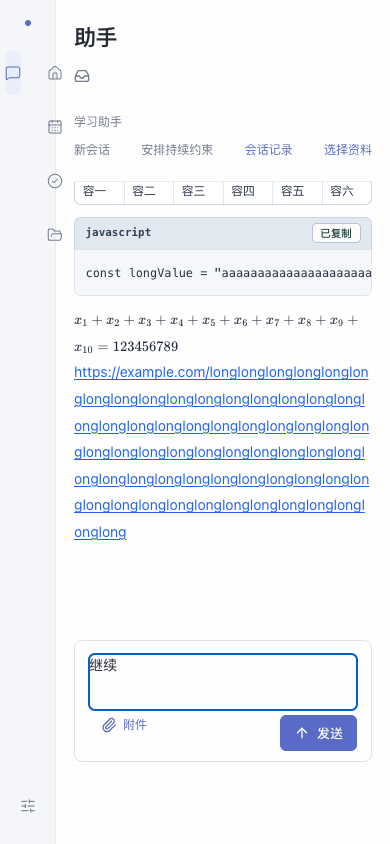
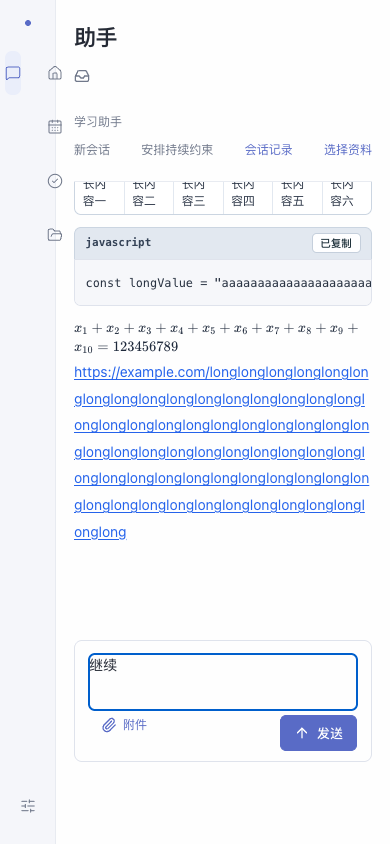
fix(chat): contain long inline formulas and prepare 2.9.2 release

diff --git a/frontend/e2e/chat-markdown.spec.ts b/frontend/e2e/chat-markdown.spec.ts
@@ -123,3 +123,18 @@ test('long tables code and formulas scroll inside narrow chat; copy preserves co
  await page.getByLabel('给助手的消息').fill('继续');await expect(page.getByRole('button',{name:'发送',exact:true})).toBeEnabled();
  await page.screenshot({path:fileURLToPath(new URL('../../docs/validation/demo2.9.2/markdown-narrow.png',import.meta.url)),fullPage:true});
 });
+
+
+test('unbreakable inline and bracket math stay inside the answer on narrow screens',async({page})=>{
+ await page.setViewportSize({width:390,height:844});
+ await reply(page,['长行内公式 $'+'x'.repeat(120)+'$。\n\n括号公式 \\('+'y'.repeat(120)+'\\)。']);
+ await enter(page);await send(page,'长行内公式');
+ const answer=page.locator('.message.assistant');await expect(answer.locator('.katex')).toHaveCount(2);
+ const bounds=await answer.evaluate(n=>({right:n.getBoundingClientRect().right,viewport:innerWidth,chat:document.querySelector('.chat-viewport')!.scrollWidth,available:document.querySelector('.chat-viewport')!.clientWidth}));
+ expect(bounds.right).toBeLessThanOrEqual(bounds.viewport);expect(bounds.chat).toBeLessThanOrEqual(bounds.available);
+ const formulaBoxes=await answer.locator('.katex').evaluateAll(ns=>ns.map(n=>{const r=n.getBoundingClientRect();return {left:r.left,right:r.right,width:r.width}}));
+ expect(formulaBoxes.every(b=>b.right<=bounds.viewport&&b.width>0)).toBe(true);
+ await answer.locator('.katex').first().hover();await page.mouse.wheel(250,0);
+ await expect.poll(()=>answer.locator('.katex').first().evaluate(n=>n.scrollLeft)).toBeGreaterThan(0);
+ await expect(page.getByLabel('给助手的消息')).toBeVisible();
+});

diff --git a/frontend/src/assistant-markdown.css b/frontend/src/assistant-markdown.css
@@ -378,8 +378,13 @@
 
 /* KaTeX math layout & overflow protection */
 .assistant-markdown .katex {
-  font-size: 1.04em;
+  display: inline-block;
   max-width: 100%;
+  overflow-x: auto;
+  overflow-y: hidden;
+  padding: 0.2em 0;
+  vertical-align: middle;
+  font-size: 1.04em;
 }
 
 .assistant-markdown .katex-display {
@@ -395,9 +400,10 @@
 }
 
 .assistant-markdown .katex-display > .katex {
-  display: inline-block;
   white-space: nowrap;
   max-width: none;
+  overflow: visible;
+  padding: 0;
 }
 
 .assistant-markdown .katex-error {

diff --git a/docs/releases/Demo2.9.2.md b/docs/releases/Demo2.9.2.md
@@ -1,0 +1,19 @@
+# Demo2.9.2 助手Markdown与数学公式
+
+助手回答支持加粗、标题、列表、引用、链接、表格、只读任务清单与代码块；代码块可复制。数学公式在本机通过KaTeX显示，支持$…$、$$…$$及模型常用的括号分隔符。代码中的标记保持原文，历史对话与新回答使用相同显示方式。用户消息按原文显示。
+
+字体、配色和消息流沿用现有界面。收到的文字即时显示，不依赖动画帧；长表格与代码块在自身区域横向滚动，长链接可换行。格式未完整或公式不合法时保留可读文本；Markdown清单不会直接修改实际任务。
+
+## 技术与边界
+
+复用assistant-ui Markdown、remark-gfm、remark-math/rehype-katex与KaTeX，许可随App提供。本轮不改模型、后端接口或数据结构。公式字体和样式随App打包，显示过程无需在线下载。
+
+原始HTML不执行，链接限制为HTTP/HTTPS或页内锚点；模型回答里的图片显示文字替代，不自动请求远程图片。附件图片与作业识别仍走原有流程。KaTeX关闭可信宏，限制展开次数与尺寸。
+
+依赖固定版本见frontend/package-lock.json；将KaTeX统一覆盖为0.19.1，以修复公式插件默认旧依赖的信任限制问题，并确保字体CSS与渲染器一致。前端运行依赖审计0已知漏洞；既有开发工具链3项中等告警不随App运行环境打包。本次没有扩大依赖升级范围。
+
+## 验收说明
+
+本版使用隔离合成消息验证Markdown、历史回放、暂停动画帧下流式显示、代码原文/复制、远程请求边界和390宽布局。正式19门禁、原生WebKit验收与包校验结果见本版验证记录。开发过程与真实用户资料分离，没有调用付费业务模型。
+
+模型仍可能产生不符合Markdown/LaTeX语法的内容；本版验证显示与容错，不对真实模型的回答正确性作额外保证。真实学校课表、作业识别和个人文献库仍沿用既有验收边界。

diff --git a/docs/superpowers/plans/2026-11-02-chat-markdown-math.md b/docs/superpowers/plans/2026-11-02-chat-markdown-math.md
@@ -31,11 +31,11 @@
 
 **Interfaces:** AssistantMarkdown(): JSX element consumes assistant-ui text-part context; exposed only as AssistantMessage Text renderer. URL policy and math preprocessing remain local.
 
-- [ ] Write isolated E2E tests injecting synthetic SSE message events into real ChatPage: strong/list/table/code/math, original user text, streaming chunk completion, paused animation frames, unsafe content/no requests, narrow overflow, history replay and code copy.
-- [ ] Run against baseline build and observe missing-format assertions fail.
-- [ ] Install pinned compatible dependencies; Antigravity generates narrow renderer/CSS with sanitized context and no data/keys. Main assistant reviews and integrates, retaining smooth=false.
-- [ ] Run targeted E2E, frontend typecheck/unit suite and build; require all pass. Review code/libraries and exercise delimiter/code boundaries.
-- [ ] Commit implementation with tests and license materials.
+- [x] Write isolated E2E tests injecting synthetic SSE message events into real ChatPage: strong/list/table/code/math, original user text, streaming chunk completion, paused animation frames, unsafe content/no requests, narrow overflow, history replay and code copy.
+- [x] Run against baseline build and observe missing-format assertions fail.
+- [x] Install pinned compatible dependencies; Antigravity generates narrow renderer/CSS with sanitized context and no data/keys. Main assistant reviews and integrates, retaining smooth=false.
+- [x] Run targeted E2E, frontend typecheck/unit suite and build; require all pass. Review code/libraries and exercise delimiter/code boundaries.
+- [x] Commit implementation with tests and license materials.
 
 ### Task 2: Review, native acceptance and release
 

diff --git a/README.md b/README.md
@@ -53,7 +53,9 @@
 
 App与安装包由本地发布流程生成；本地最新版入口见工作区README。历史版本已备份到既有私有GitHub Releases，需登录有权限的账号下载，见[云端归档与恢复](docs/releases/历史版本云端归档.md)。源码构建见下方说明。
 
-最新补丁 **2.9.1 检索设置排版修复**，分支`codex/research-settings-layout`。复选框与“启用语义检索”同行，补充搜索服务地址说明。[本版说明](docs/releases/Demo2.9.1.md) · [验收记录](docs/validation/demo2.9.1/README.md)。19项发布检查、803后台+20子项、114前端、111界面及正式App设置页目视验收通过；原资料已恢复。
+最新版本 **2.9.2 助手Markdown与数学公式**，分支`codex/chat-markdown-math`。支持格式化回答、表格、代码复制和本地公式，兼容历史与流式消息。[本版说明](docs/releases/Demo2.9.2.md)。正式结果以本版发布目录验证记录为准。
+
+历史补丁 **2.9.1 检索设置排版修复**，分支`codex/research-settings-layout`。复选框与“启用语义检索”同行，补充搜索服务地址说明。[本版说明](docs/releases/Demo2.9.1.md) · [验收记录](docs/validation/demo2.9.1/README.md)。19项发布检查、803后台+20子项、114前端、111界面及正式App设置页目视验收通过；原资料已恢复。
 
 历史发布 **2.9.0 课程资料工作区**，分支`codex/course-library-workspace`。19门禁、803后台+20子项、114前端、111界面与最终App原生上传/分类/选用/固定侧栏验收通过，签名/39哈希/双ZIP/252运行源码核对通过。[本版记录](docs/validation/demo2.9/README.md)。
 

diff --git a/docs/roadmap/Demo2.5-开发进度追踪表.md b/docs/roadmap/Demo2.5-开发进度追踪表.md
@@ -277,3 +277,5 @@ U3c/Task3：统一导入面板已实现，学校/Chrome或保存的Edge为默认
 2026-11-02 2.9.2启动：用户确认复用开源Markdown/公式组件并要求实施。基于7e8bbf1新建codex/chat-markdown-math，已验证现有前端114项基线通过；规范与实施计划见2026-11-02-chat-markdown-design/math。保留smooth=false和用户原文，准备隔离失败用例与Antigravity窄组件实现。尚未发布，不调用业务模型。
 
 2026-11-02 2.9.2实现验证：Antigravity gemini-4-argon-medium/medium在脱敏上下文产出主要Markdown/样式组件；主助手接入、修正Text分支类型与局部样式。新增4项真实ChatPage合成SSE测试先RED后GREEN，114原前端通过；覆盖历史、暂停动画帧、公式/代码分隔符、零远程图片请求、危险内容和390宽复制。依赖统一KaTeX0.19.1后运行依赖审计0漏洞；原有开发工具链3项中等告警不进入App。已恢复项目固定Node22.23.3工具。准备独立代码审查与正式构建，尚未发布。
+
+2026-11-02 2.9.2独立审查：1项Important（超长行内公式溢出），已新增真实DOM失败回归：999>298，修复为公式自身可滚动，完整5项Markdown界面通过。审查未发现其他实质问题；Mermaid/语法高亮/远程图片预览按已确认范围留后续。准备正式19门禁与独立App原生合成验收，仍无付费业务模型请求。

diff --git a/docs/validation/demo2.9.2/README.md b/docs/validation/demo2.9.2/README.md
@@ -1,0 +1,9 @@
+# 2.9.2 Markdown与公式验收
+
+用户确认开源组件方案后在独立分支codex/chat-markdown-math实施。Antigravity gemini-4-argon-medium/medium生成主要组件与CSS，主助手集成、调整现有样式并测试，不向编码服务提供个人资料或App密钥。
+
+114项原前端基线通过。4项真实ChatPage集成用例使用隔离合成SSE先RED后GREEN，覆盖格式与公式、用户原文/历史、暂停动画帧、危险内容/零远程图片访问及390宽代码复制。独立代码审查发现1项Important：超长行内公式越界；新增回归先失败（聊天scrollWidth999>clientWidth298），修复后5项Markdown集成全部通过，另以实际水平滚轮确认长行内公式可完整滚动阅读。
+
+运行依赖固定，KaTeX统一0.19.1，运行依赖npm审计0已知漏洞；本机项目工具Node22.23.3与已有约束一致。最终App状态以正式发布目录验证结果.json与manifest为准，不能以本页开发证据代替。没有调用付费业务模型。
+
+开发RED/GREEN/审查证据保存于development-checks.zip。源码一致性、原生WebKit及完整19门禁另在正式发布验证结果中记录。
